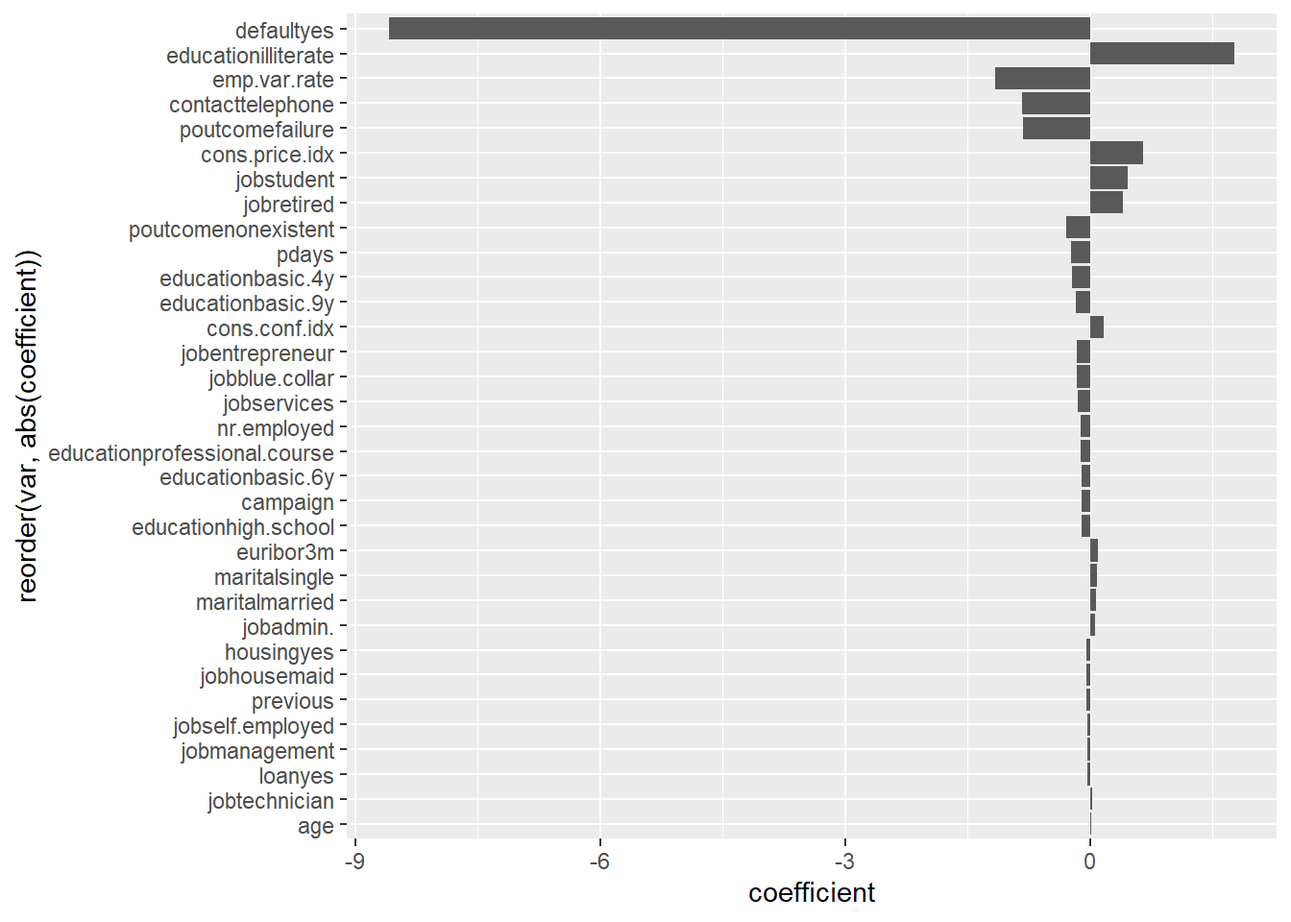
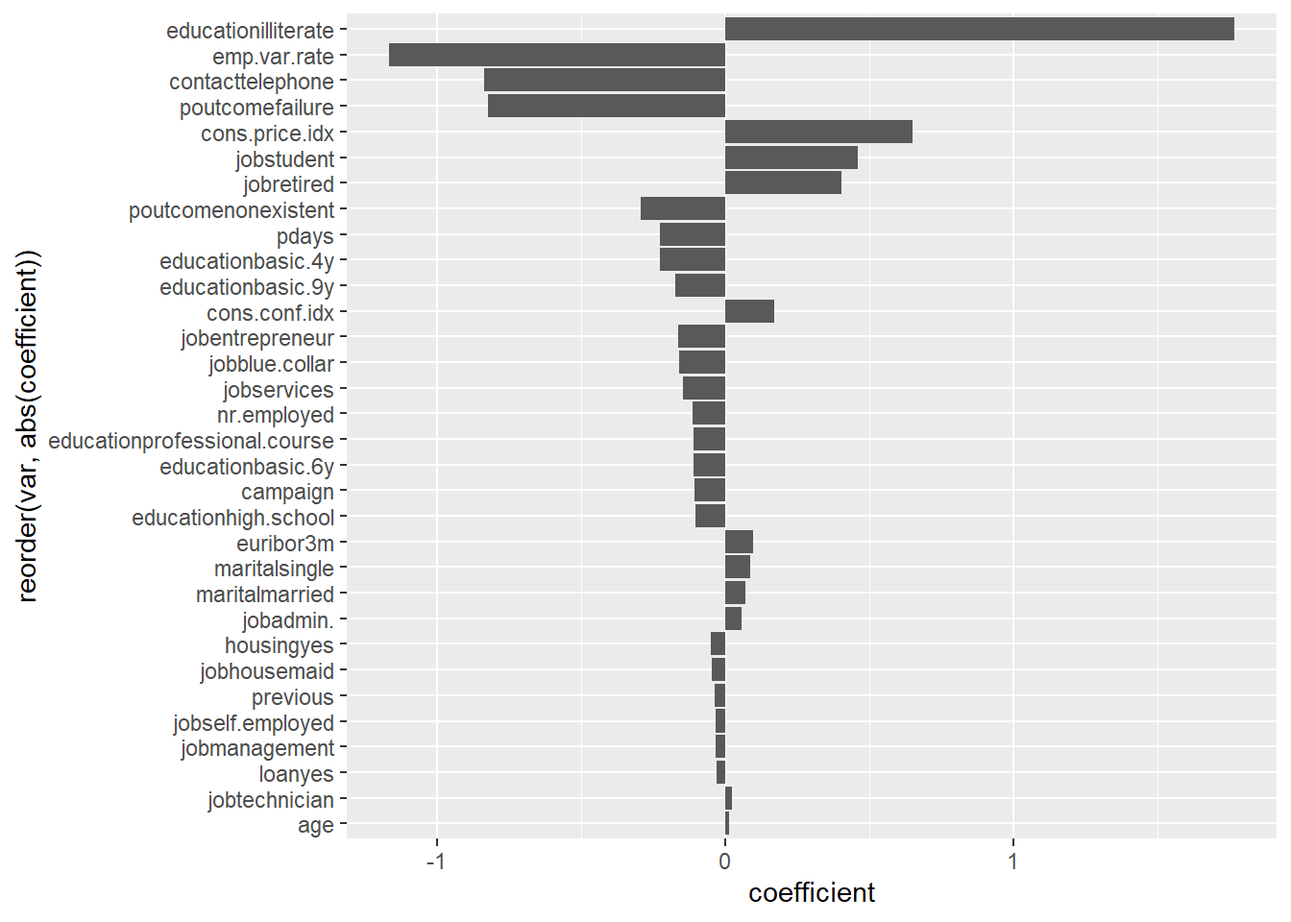
update

diff --git a/docs/logistic-regression.html b/docs/logistic-regression.html
@@ -105,13 +105,13 @@
             <section class="normal" id="section-">
 <div id="logistic-regression" class="section level1 hasAnchor" number="2">
 <h1><span class="header-section-number">Chapter 2</span> [Logistic Regression]<a href="logistic-regression.html#logistic-regression" class="anchor-section" aria-label="Anchor link to header"></a></h1>
-<p><img src="finalproj_files/figure-html/unnamed-chunk-16-1.png" width="672" />
+<p><img src="finalproj_files/figure-html/unnamed-chunk-15-1.png" width="672" />
 After the logistic regression models are built, we may access the feature importance by visualize the coefficient. The plot above shows the magnitude of significance for each variable with a descending order of their absolute value. It is obvious that the default value has the largest influence on the predicted probability. However, that’s mostly because of the default yes record in the data set according to the EDA part. Despite the default values, whether the person is illiterate, employment variable rate, whether the contacting is via telephone, and the outcome of previous campaign has remarkable impact on the prediction. However, the coefficient of default is too large that we actually can not assess the exact coefficient of variables by visualization; hence we may eliminate the default from the graph and get a new bar plot as follows.</p>
-<p><img src="finalproj_files/figure-html/unnamed-chunk-17-1.png" width="672" />
+<p><img src="finalproj_files/figure-html/unnamed-chunk-16-1.png" width="672" />
 From this plot, we may find that there are some variables that creates minor impact in our full regression model. Specifically speaking, in this plot,
-housingyes,, jobhousemaid, previous, jobself.employed, jobmanagement,loanyes, jobtechnician, and age have coefficient under 0.05. We will examine a reduced model without these listed variable in the following analysis.</p>
-<div class="plotly html-widget html-fill-item-overflow-hidden html-fill-item" id="htmlwidget-6e4af9d8e630ca2dcbc8" style="width:672px;height:480px;"></div>
-<script type="application/json" data-for="htmlwidget-6e4af9d8e630ca2dcbc8">{"x":{"data":[{"x":[1,0.99981301421092,0.992894540014959,0.959798055347794,0.860134629768138,0.62284966342558,0.454562453253553,0.387247569184742,0.334704562453254,0.291136873597607,0.256918474195961,0.243455497382199,0.232797307404637,0.213911742707554,0.18960359012715,0.169970082273747,0.152019446522064,0.132385938668661,0.118548990276739,0.107142857142857,0.0989154824233358,0.0959237097980554,0.0908750934928945,0.0869483919222139,0.0833956619296933,0.0794689603590127,0.0768511593118923,0.0740463724756918,0.0697456993268512,0.0667539267015707,0.0641361256544503,0.0613313388182498,0.0574046372475692,0.0544128646222887,0.0516080777860883,0.050299177262528,0.0486163051608078,0.0459985041136874,0.043941660433807,0.0413238593866866,0.0388930441286462,0.0362752430815258,0.0338444278234854,0.0327225130890052,0.0299177262528048,0.0286088257292446,0.0259910246821242,0.0241211667913239,0.0216903515332835,0.0200074794315632,0.018698578908003,0.0177636499626028,0.0173896783844428,0.0162677636499626,0.0157068062827225,0.0149588631264024,0.0138369483919222,0.0130890052356021,0.0119670905011219,0.0112191473448018,0.0102842183994016,0.00953627524308153,0.00897531787584144,0.00878833208676141,0.00841436050860135,0.00841436050860135,0.00804038893044129,0.00766641735228123,0.00766641735228123,0.00766641735228123,0.00710545998504114,0.00654450261780105,0.00617053103964099,0.0056095736724009,0.00504861630516081,0.00448765893792072,0.00411368735976066,0.00299177262528048,0.00261780104712042,0.00224382946896036,0.00149588631264024,0.00093492894540015,0.00037397157816006,0.00037397157816006,0.00018698578908003,0,0,0,0,0,0,0,0,0,0,0,0,0,0,0,0],"y":[1,1,0.997333333333333,0.996,0.965333333333333,0.893333333333333,0.821333333333333,0.792,0.761333333333333,0.732,0.717333333333333,0.708,0.697333333333333,0.678666666666667,0.654666666666667,0.628,0.606666666666667,0.585333333333333,0.564,0.552,0.533333333333333,0.514666666666667,0.496,0.492,0.486666666666667,0.474666666666667,0.464,0.457333333333333,0.448,0.441333333333333,0.436,0.428,0.416,0.404,0.394666666666667,0.386666666666667,0.378666666666667,0.365333333333333,0.358666666666667,0.349333333333333,0.334666666666667,0.324,0.317333333333333,0.312,0.302666666666667,0.289333333333333,0.276,0.262666666666667,0.249333333333333,0.236,0.222666666666667,0.214666666666667,0.208,0.201333333333333,0.193333333333333,0.186666666666667,0.178666666666667,0.173333333333333,0.168,0.168,0.162666666666667,0.158666666666667,0.156,0.150666666666667,0.149333333333333,0.141333333333333,0.141333333333333,0.133333333333333,0.129333333333333,0.125333333333333,0.12,0.112,0.1,0.096,0.0946666666666667,0.0853333333333333,0.076,0.0666666666666667,0.0626666666666667,0.0493333333333333,0.0373333333333333,0.0213333333333333,0.0133333333333333,0.008,0.00666666666666667,0.00266666666666667,0.00133333333333333,0,0,0,0,0,0,0,0,0,0,0,0,0,0],"text":["fpr: 1.0000000000<br />tpr: 1.000000000<br />label: 0.00","fpr: 0.9998130142<br />tpr: 1.000000000<br />label: 0.01","fpr: 0.9928945400<br />tpr: 0.997333333<br />label: 0.02","fpr: 0.9597980553<br />tpr: 0.996000000<br />label: 0.03","fpr: 0.8601346298<br />tpr: 0.965333333<br />label: 0.04","fpr: 0.6228496634<br />tpr: 0.893333333<br />label: 0.05","fpr: 0.4545624533<br />tpr: 0.821333333<br />label: 0.06","fpr: 0.3872475692<br />tpr: 0.792000000<br />label: 0.07","fpr: 0.3347045625<br />tpr: 0.761333333<br />label: 0.08","fpr: 0.2911368736<br />tpr: 0.732000000<br />label: 0.09","fpr: 0.2569184742<br />tpr: 0.717333333<br />label: 0.10","fpr: 0.2434554974<br />tpr: 0.708000000<br />label: 0.11","fpr: 0.2327973074<br />tpr: 0.697333333<br />label: 0.12","fpr: 0.2139117427<br />tpr: 0.678666667<br />label: 0.13","fpr: 0.1896035901<br />tpr: 0.654666667<br />label: 0.14","fpr: 0.1699700823<br />tpr: 0.628000000<br />label: 0.15","fpr: 0.1520194465<br />tpr: 0.606666667<br />label: 0.16","fpr: 0.1323859387<br />tpr: 0.585333333<br />label: 0.17","fpr: 0.1185489903<br />tpr: 0.564000000<br />label: 0.18","fpr: 0.1071428571<br />tpr: 0.552000000<br />label: 0.19","fpr: 0.0989154824<br />tpr: 0.533333333<br />label: 0.20","fpr: 0.0959237098<br />tpr: 0.514666667<br />label: 0.21","fpr: 0.0908750935<br />tpr: 0.496000000<br />label: 0.22","fpr: 0.0869483919<br />tpr: 0.492000000<br />label: 0.23","fpr: 0.0833956619<br />tpr: 0.486666667<br />label: 0.24","fpr: 0.0794689604<br />tpr: 0.474666667<br />label: 0.25","fpr: 0.0768511593<br />tpr: 0.464000000<br />label: 0.26","fpr: 0.0740463725<br />tpr: 0.457333333<br />label: 0.27","fpr: 0.0697456993<br />tpr: 0.448000000<br />label: 0.28","fpr: 0.0667539267<br />tpr: 0.441333333<br />label: 0.29","fpr: 0.0641361257<br />tpr: 0.436000000<br />label: 0.30","fpr: 0.0613313388<br />tpr: 0.428000000<br />label: 0.31","fpr: 0.0574046372<br />tpr: 0.416000000<br />label: 0.32","fpr: 0.0544128646<br />tpr: 0.404000000<br />label: 0.33","fpr: 0.0516080778<br />tpr: 0.394666667<br />label: 0.34","fpr: 0.0502991773<br />tpr: 0.386666667<br />label: 0.35","fpr: 0.0486163052<br />tpr: 0.378666667<br />label: 0.36","fpr: 0.0459985041<br />tpr: 0.365333333<br />label: 0.37","fpr: 0.0439416604<br />tpr: 0.358666667<br />label: 0.38","fpr: 0.0413238594<br />tpr: 0.349333333<br />label: 0.39","fpr: 0.0388930441<br />tpr: 0.334666667<br />label: 0.40","fpr: 0.0362752431<br />tpr: 0.324000000<br />label: 0.41","fpr: 0.0338444278<br />tpr: 0.317333333<br />label: 0.42","fpr: 0.0327225131<br />tpr: 0.312000000<br />label: 0.43","fpr: 0.0299177263<br />tpr: 0.302666667<br />label: 0.44","fpr: 0.0286088257<br />tpr: 0.289333333<br />label: 0.45","fpr: 0.0259910247<br />tpr: 0.276000000<br />label: 0.46","fpr: 0.0241211668<br />tpr: 0.262666667<br />label: 0.47","fpr: 0.0216903515<br />tpr: 0.249333333<br />label: 0.48","fpr: 0.0200074794<br />tpr: 0.236000000<br />label: 0.49","fpr: 0.0186985789<br />tpr: 0.222666667<br />label: 0.50","fpr: 0.0177636500<br />tpr: 0.214666667<br />label: 0.51","fpr: 0.0173896784<br />tpr: 0.208000000<br />label: 0.52","fpr: 0.0162677636<br />tpr: 0.201333333<br />label: 0.53","fpr: 0.0157068063<br />tpr: 0.193333333<br />label: 0.54","fpr: 0.0149588631<br />tpr: 0.186666667<br />label: 0.55","fpr: 0.0138369484<br />tpr: 0.178666667<br />label: 0.56","fpr: 0.0130890052<br />tpr: 0.173333333<br />label: 0.57","fpr: 0.0119670905<br />tpr: 0.168000000<br />label: 0.58","fpr: 0.0112191473<br />tpr: 0.168000000<br />label: 0.59","fpr: 0.0102842184<br />tpr: 0.162666667<br />label: 0.60","fpr: 0.0095362752<br />tpr: 0.158666667<br />label: 0.61","fpr: 0.0089753179<br />tpr: 0.156000000<br />label: 0.62","fpr: 0.0087883321<br />tpr: 0.150666667<br />label: 0.63","fpr: 0.0084143605<br />tpr: 0.149333333<br />label: 0.64","fpr: 0.0084143605<br />tpr: 0.141333333<br />label: 0.65","fpr: 0.0080403889<br />tpr: 0.141333333<br />label: 0.66","fpr: 0.0076664174<br />tpr: 0.133333333<br />label: 0.67","fpr: 0.0076664174<br />tpr: 0.129333333<br />label: 0.68","fpr: 0.0076664174<br />tpr: 0.125333333<br />label: 0.69","fpr: 0.0071054600<br />tpr: 0.120000000<br />label: 0.70","fpr: 0.0065445026<br />tpr: 0.112000000<br />label: 0.71","fpr: 0.0061705310<br />tpr: 0.100000000<br />label: 0.72","fpr: 0.0056095737<br />tpr: 0.096000000<br />label: 0.73","fpr: 0.0050486163<br />tpr: 0.094666667<br />label: 0.74","fpr: 0.0044876589<br />tpr: 0.085333333<br />label: 0.75","fpr: 0.0041136874<br />tpr: 0.076000000<br />label: 0.76","fpr: 0.0029917726<br />tpr: 0.066666667<br />label: 0.77","fpr: 0.0026178010<br />tpr: 0.062666667<br />label: 0.78","fpr: 0.0022438295<br />tpr: 0.049333333<br />label: 0.79","fpr: 0.0014958863<br />tpr: 0.037333333<br />label: 0.80","fpr: 0.0009349289<br />tpr: 0.021333333<br />label: 0.81","fpr: 0.0003739716<br />tpr: 0.013333333<br />label: 0.82","fpr: 0.0003739716<br />tpr: 0.008000000<br />label: 0.83","fpr: 0.0001869858<br />tpr: 0.006666667<br />label: 0.84","fpr: 0.0000000000<br />tpr: 0.002666667<br />label: 0.85","fpr: 0.0000000000<br />tpr: 0.001333333<br />label: 0.86","fpr: 0.0000000000<br />tpr: 0.000000000<br />label: 0.87","fpr: 0.0000000000<br />tpr: 0.000000000<br />label: 0.88","fpr: 0.0000000000<br />tpr: 0.000000000<br />label: 0.89","fpr: 0.0000000000<br />tpr: 0.000000000<br />label: 0.90","fpr: 0.0000000000<br />tpr: 0.000000000<br />label: 0.91","fpr: 0.0000000000<br />tpr: 0.000000000<br />label: 0.92","fpr: 0.0000000000<br />tpr: 0.000000000<br />label: 0.93","fpr: 0.0000000000<br />tpr: 0.000000000<br />label: 0.94","fpr: 0.0000000000<br />tpr: 0.000000000<br />label: 0.95","fpr: 0.0000000000<br />tpr: 0.000000000<br />label: 0.96","fpr: 0.0000000000<br />tpr: 0.000000000<br />label: 0.97","fpr: 0.0000000000<br />tpr: 0.000000000<br />label: 0.98","fpr: 0.0000000000<br />tpr: 0.000000000<br />label: 0.99","fpr: 0.0000000000<br />tpr: 0.000000000<br />label: 1.00"],"type":"scatter","mode":"markers+lines","marker":{"autocolorscale":false,"color":"rgba(0,0,0,1)","opacity":1,"size":5.66929133858268,"symbol":"circle","line":{"width":1.88976377952756,"color":"rgba(0,0,0,1)"}},"hoveron":"points","showlegend":false,"xaxis":"x","yaxis":"y","hoverinfo":"text","line":{"width":1.88976377952756,"color":"rgba(0,0,0,1)","dash":"solid"},"frame":null},{"showlegend":false,"xaxis":"x","yaxis":"y","hoverinfo":"text","mode":"","frame":null}],"layout":{"margin":{"t":26.2283105022831,"r":7.30593607305936,"b":40.1826484018265,"l":48.9497716894977},"plot_bgcolor":"rgba(235,235,235,1)","paper_bgcolor":"rgba(255,255,255,1)","font":{"color":"rgba(0,0,0,1)","family":"","size":14.6118721461187},"xaxis":{"domain":[0,1],"automargin":true,"type":"linear","autorange":false,"range":[-0.05,1.05],"tickmode":"array","ticktext":["0.00","0.25","0.50","0.75","1.00"],"tickvals":[0,0.25,0.5,0.75,1],"categoryorder":"array","categoryarray":["0.00","0.25","0.50","0.75","1.00"],"nticks":null,"ticks":"outside","tickcolor":"rgba(51,51,51,1)","ticklen":3.65296803652968,"tickwidth":0.66417600664176,"showticklabels":true,"tickfont":{"color":"rgba(77,77,77,1)","family":"","size":11.689497716895},"tickangle":-0,"showline":false,"linecolor":null,"linewidth":0,"showgrid":true,"gridcolor":"rgba(255,255,255,1)","gridwidth":0.66417600664176,"zeroline":false,"anchor":"y","title":{"text":"fpr","font":{"color":"rgba(0,0,0,1)","family":"","size":14.6118721461187}},"hoverformat":".2f"},"yaxis":{"domain":[0,1],"automargin":true,"type":"linear","autorange":false,"range":[-0.05,1.05],"tickmode":"array","ticktext":["0.00","0.25","0.50","0.75","1.00"],"tickvals":[0,0.25,0.5,0.75,1],"categoryorder":"array","categoryarray":["0.00","0.25","0.50","0.75","1.00"],"nticks":null,"ticks":"outside","tickcolor":"rgba(51,51,51,1)","ticklen":3.65296803652968,"tickwidth":0.66417600664176,"showticklabels":true,"tickfont":{"color":"rgba(77,77,77,1)","family":"","size":11.689497716895},"tickangle":-0,"showline":false,"linecolor":null,"linewidth":0,"showgrid":true,"gridcolor":"rgba(255,255,255,1)","gridwidth":0.66417600664176,"zeroline":false,"anchor":"x","title":{"text":"tpr","font":{"color":"rgba(0,0,0,1)","family":"","size":14.6118721461187}},"hoverformat":".2f"},"shapes":[{"type":"rect","fillcolor":null,"line":{"color":null,"width":0,"linetype":[]},"yref":"paper","xref":"paper","x0":0,"x1":1,"y0":0,"y1":1}],"showlegend":false,"legend":{"bgcolor":"rgba(255,255,255,1)","bordercolor":"transparent","borderwidth":1.88976377952756,"font":{"color":"rgba(0,0,0,1)","family":"","size":11.689497716895}},"hovermode":"closest","barmode":"relative"},"config":{"doubleClick":"reset","modeBarButtonsToAdd":["hoverclosest","hovercompare"],"showSendToCloud":false},"source":"A","attrs":{"79684794286e":{"x":{},"y":{},"label":{},"type":"scatter"},"79682f1b2efe":{"x":{},"y":{},"label":{}},"796815973ce5":{"x":{},"y":{},"label":{}}},"cur_data":"79684794286e","visdat":{"79684794286e":["function (y) ","x"],"79682f1b2efe":["function (y) ","x"],"796815973ce5":["function (y) ","x"]},"highlight":{"on":"plotly_click","persistent":false,"dynamic":false,"selectize":false,"opacityDim":0.2,"selected":{"opacity":1},"debounce":0},"shinyEvents":["plotly_hover","plotly_click","plotly_selected","plotly_relayout","plotly_brushed","plotly_brushing","plotly_clickannotation","plotly_doubleclick","plotly_deselect","plotly_afterplot","plotly_sunburstclick"],"base_url":"https://plot.ly"},"evals":[],"jsHooks":[]}</script>
+housingyes,, jobhousemaid, previous, jobself.employed, jobmanagement,loanyes, jobtechnician, and age have relatively small coefficient values. We will examine a reduced model without these listed variable in the following analysis.</p>
+<div class="plotly html-widget html-fill-item-overflow-hidden html-fill-item" id="htmlwidget-8554d9172f6d47083a55" style="width:672px;height:480px;"></div>
+<script type="application/json" data-for="htmlwidget-8554d9172f6d47083a55">{"x":{"data":[{"x":[1,0.99981301421092,0.992894540014959,0.959798055347794,0.860134629768138,0.62284966342558,0.454562453253553,0.387247569184742,0.334704562453254,0.291136873597607,0.256918474195961,0.243455497382199,0.232797307404637,0.213911742707554,0.18960359012715,0.169970082273747,0.152019446522064,0.132385938668661,0.118548990276739,0.107142857142857,0.0989154824233358,0.0959237097980554,0.0908750934928945,0.0869483919222139,0.0833956619296933,0.0794689603590127,0.0768511593118923,0.0740463724756918,0.0697456993268512,0.0667539267015707,0.0641361256544503,0.0613313388182498,0.0574046372475692,0.0544128646222887,0.0516080777860883,0.050299177262528,0.0486163051608078,0.0459985041136874,0.043941660433807,0.0413238593866866,0.0388930441286462,0.0362752430815258,0.0338444278234854,0.0327225130890052,0.0299177262528048,0.0286088257292446,0.0259910246821242,0.0241211667913239,0.0216903515332835,0.0200074794315632,0.018698578908003,0.0177636499626028,0.0173896783844428,0.0162677636499626,0.0157068062827225,0.0149588631264024,0.0138369483919222,0.0130890052356021,0.0119670905011219,0.0112191473448018,0.0102842183994016,0.00953627524308153,0.00897531787584144,0.00878833208676141,0.00841436050860135,0.00841436050860135,0.00804038893044129,0.00766641735228123,0.00766641735228123,0.00766641735228123,0.00710545998504114,0.00654450261780105,0.00617053103964099,0.0056095736724009,0.00504861630516081,0.00448765893792072,0.00411368735976066,0.00299177262528048,0.00261780104712042,0.00224382946896036,0.00149588631264024,0.00093492894540015,0.00037397157816006,0.00037397157816006,0.00018698578908003,0,0,0,0,0,0,0,0,0,0,0,0,0,0,0,0],"y":[1,1,0.997333333333333,0.996,0.965333333333333,0.893333333333333,0.821333333333333,0.792,0.761333333333333,0.732,0.717333333333333,0.708,0.697333333333333,0.678666666666667,0.654666666666667,0.628,0.606666666666667,0.585333333333333,0.564,0.552,0.533333333333333,0.514666666666667,0.496,0.492,0.486666666666667,0.474666666666667,0.464,0.457333333333333,0.448,0.441333333333333,0.436,0.428,0.416,0.404,0.394666666666667,0.386666666666667,0.378666666666667,0.365333333333333,0.358666666666667,0.349333333333333,0.334666666666667,0.324,0.317333333333333,0.312,0.302666666666667,0.289333333333333,0.276,0.262666666666667,0.249333333333333,0.236,0.222666666666667,0.214666666666667,0.208,0.201333333333333,0.193333333333333,0.186666666666667,0.178666666666667,0.173333333333333,0.168,0.168,0.162666666666667,0.158666666666667,0.156,0.150666666666667,0.149333333333333,0.141333333333333,0.141333333333333,0.133333333333333,0.129333333333333,0.125333333333333,0.12,0.112,0.1,0.096,0.0946666666666667,0.0853333333333333,0.076,0.0666666666666667,0.0626666666666667,0.0493333333333333,0.0373333333333333,0.0213333333333333,0.0133333333333333,0.008,0.00666666666666667,0.00266666666666667,0.00133333333333333,0,0,0,0,0,0,0,0,0,0,0,0,0,0],"text":["fpr: 1.0000000000<br />tpr: 1.000000000<br />label: 0.00","fpr: 0.9998130142<br />tpr: 1.000000000<br />label: 0.01","fpr: 0.9928945400<br />tpr: 0.997333333<br />label: 0.02","fpr: 0.9597980553<br />tpr: 0.996000000<br />label: 0.03","fpr: 0.8601346298<br />tpr: 0.965333333<br />label: 0.04","fpr: 0.6228496634<br />tpr: 0.893333333<br />label: 0.05","fpr: 0.4545624533<br />tpr: 0.821333333<br />label: 0.06","fpr: 0.3872475692<br />tpr: 0.792000000<br />label: 0.07","fpr: 0.3347045625<br />tpr: 0.761333333<br />label: 0.08","fpr: 0.2911368736<br />tpr: 0.732000000<br />label: 0.09","fpr: 0.2569184742<br />tpr: 0.717333333<br />label: 0.10","fpr: 0.2434554974<br />tpr: 0.708000000<br />label: 0.11","fpr: 0.2327973074<br />tpr: 0.697333333<br />label: 0.12","fpr: 0.2139117427<br />tpr: 0.678666667<br />label: 0.13","fpr: 0.1896035901<br />tpr: 0.654666667<br />label: 0.14","fpr: 0.1699700823<br />tpr: 0.628000000<br />label: 0.15","fpr: 0.1520194465<br />tpr: 0.606666667<br />label: 0.16","fpr: 0.1323859387<br />tpr: 0.585333333<br />label: 0.17","fpr: 0.1185489903<br />tpr: 0.564000000<br />label: 0.18","fpr: 0.1071428571<br />tpr: 0.552000000<br />label: 0.19","fpr: 0.0989154824<br />tpr: 0.533333333<br />label: 0.20","fpr: 0.0959237098<br />tpr: 0.514666667<br />label: 0.21","fpr: 0.0908750935<br />tpr: 0.496000000<br />label: 0.22","fpr: 0.0869483919<br />tpr: 0.492000000<br />label: 0.23","fpr: 0.0833956619<br />tpr: 0.486666667<br />label: 0.24","fpr: 0.0794689604<br />tpr: 0.474666667<br />label: 0.25","fpr: 0.0768511593<br />tpr: 0.464000000<br />label: 0.26","fpr: 0.0740463725<br />tpr: 0.457333333<br />label: 0.27","fpr: 0.0697456993<br />tpr: 0.448000000<br />label: 0.28","fpr: 0.0667539267<br />tpr: 0.441333333<br />label: 0.29","fpr: 0.0641361257<br />tpr: 0.436000000<br />label: 0.30","fpr: 0.0613313388<br />tpr: 0.428000000<br />label: 0.31","fpr: 0.0574046372<br />tpr: 0.416000000<br />label: 0.32","fpr: 0.0544128646<br />tpr: 0.404000000<br />label: 0.33","fpr: 0.0516080778<br />tpr: 0.394666667<br />label: 0.34","fpr: 0.0502991773<br />tpr: 0.386666667<br />label: 0.35","fpr: 0.0486163052<br />tpr: 0.378666667<br />label: 0.36","fpr: 0.0459985041<br />tpr: 0.365333333<br />label: 0.37","fpr: 0.0439416604<br />tpr: 0.358666667<br />label: 0.38","fpr: 0.0413238594<br />tpr: 0.349333333<br />label: 0.39","fpr: 0.0388930441<br />tpr: 0.334666667<br />label: 0.40","fpr: 0.0362752431<br />tpr: 0.324000000<br />label: 0.41","fpr: 0.0338444278<br />tpr: 0.317333333<br />label: 0.42","fpr: 0.0327225131<br />tpr: 0.312000000<br />label: 0.43","fpr: 0.0299177263<br />tpr: 0.302666667<br />label: 0.44","fpr: 0.0286088257<br />tpr: 0.289333333<br />label: 0.45","fpr: 0.0259910247<br />tpr: 0.276000000<br />label: 0.46","fpr: 0.0241211668<br />tpr: 0.262666667<br />label: 0.47","fpr: 0.0216903515<br />tpr: 0.249333333<br />label: 0.48","fpr: 0.0200074794<br />tpr: 0.236000000<br />label: 0.49","fpr: 0.0186985789<br />tpr: 0.222666667<br />label: 0.50","fpr: 0.0177636500<br />tpr: 0.214666667<br />label: 0.51","fpr: 0.0173896784<br />tpr: 0.208000000<br />label: 0.52","fpr: 0.0162677636<br />tpr: 0.201333333<br />label: 0.53","fpr: 0.0157068063<br />tpr: 0.193333333<br />label: 0.54","fpr: 0.0149588631<br />tpr: 0.186666667<br />label: 0.55","fpr: 0.0138369484<br />tpr: 0.178666667<br />label: 0.56","fpr: 0.0130890052<br />tpr: 0.173333333<br />label: 0.57","fpr: 0.0119670905<br />tpr: 0.168000000<br />label: 0.58","fpr: 0.0112191473<br />tpr: 0.168000000<br />label: 0.59","fpr: 0.0102842184<br />tpr: 0.162666667<br />label: 0.60","fpr: 0.0095362752<br />tpr: 0.158666667<br />label: 0.61","fpr: 0.0089753179<br />tpr: 0.156000000<br />label: 0.62","fpr: 0.0087883321<br />tpr: 0.150666667<br />label: 0.63","fpr: 0.0084143605<br />tpr: 0.149333333<br />label: 0.64","fpr: 0.0084143605<br />tpr: 0.141333333<br />label: 0.65","fpr: 0.0080403889<br />tpr: 0.141333333<br />label: 0.66","fpr: 0.0076664174<br />tpr: 0.133333333<br />label: 0.67","fpr: 0.0076664174<br />tpr: 0.129333333<br />label: 0.68","fpr: 0.0076664174<br />tpr: 0.125333333<br />label: 0.69","fpr: 0.0071054600<br />tpr: 0.120000000<br />label: 0.70","fpr: 0.0065445026<br />tpr: 0.112000000<br />label: 0.71","fpr: 0.0061705310<br />tpr: 0.100000000<br />label: 0.72","fpr: 0.0056095737<br />tpr: 0.096000000<br />label: 0.73","fpr: 0.0050486163<br />tpr: 0.094666667<br />label: 0.74","fpr: 0.0044876589<br />tpr: 0.085333333<br />label: 0.75","fpr: 0.0041136874<br />tpr: 0.076000000<br />label: 0.76","fpr: 0.0029917726<br />tpr: 0.066666667<br />label: 0.77","fpr: 0.0026178010<br />tpr: 0.062666667<br />label: 0.78","fpr: 0.0022438295<br />tpr: 0.049333333<br />label: 0.79","fpr: 0.0014958863<br />tpr: 0.037333333<br />label: 0.80","fpr: 0.0009349289<br />tpr: 0.021333333<br />label: 0.81","fpr: 0.0003739716<br />tpr: 0.013333333<br />label: 0.82","fpr: 0.0003739716<br />tpr: 0.008000000<br />label: 0.83","fpr: 0.0001869858<br />tpr: 0.006666667<br />label: 0.84","fpr: 0.0000000000<br />tpr: 0.002666667<br />label: 0.85","fpr: 0.0000000000<br />tpr: 0.001333333<br />label: 0.86","fpr: 0.0000000000<br />tpr: 0.000000000<br />label: 0.87","fpr: 0.0000000000<br />tpr: 0.000000000<br />label: 0.88","fpr: 0.0000000000<br />tpr: 0.000000000<br />label: 0.89","fpr: 0.0000000000<br />tpr: 0.000000000<br />label: 0.90","fpr: 0.0000000000<br />tpr: 0.000000000<br />label: 0.91","fpr: 0.0000000000<br />tpr: 0.000000000<br />label: 0.92","fpr: 0.0000000000<br />tpr: 0.000000000<br />label: 0.93","fpr: 0.0000000000<br />tpr: 0.000000000<br />label: 0.94","fpr: 0.0000000000<br />tpr: 0.000000000<br />label: 0.95","fpr: 0.0000000000<br />tpr: 0.000000000<br />label: 0.96","fpr: 0.0000000000<br />tpr: 0.000000000<br />label: 0.97","fpr: 0.0000000000<br />tpr: 0.000000000<br />label: 0.98","fpr: 0.0000000000<br />tpr: 0.000000000<br />label: 0.99","fpr: 0.0000000000<br />tpr: 0.000000000<br />label: 1.00"],"type":"scatter","mode":"markers+lines","marker":{"autocolorscale":false,"color":"rgba(0,0,0,1)","opacity":1,"size":5.66929133858268,"symbol":"circle","line":{"width":1.88976377952756,"color":"rgba(0,0,0,1)"}},"hoveron":"points","showlegend":false,"xaxis":"x","yaxis":"y","hoverinfo":"text","line":{"width":1.88976377952756,"color":"rgba(0,0,0,1)","dash":"solid"},"frame":null},{"showlegend":false,"xaxis":"x","yaxis":"y","hoverinfo":"text","mode":"","frame":null}],"layout":{"margin":{"t":26.2283105022831,"r":7.30593607305936,"b":40.1826484018265,"l":48.9497716894977},"plot_bgcolor":"rgba(235,235,235,1)","paper_bgcolor":"rgba(255,255,255,1)","font":{"color":"rgba(0,0,0,1)","family":"","size":14.6118721461187},"xaxis":{"domain":[0,1],"automargin":true,"type":"linear","autorange":false,"range":[-0.05,1.05],"tickmode":"array","ticktext":["0.00","0.25","0.50","0.75","1.00"],"tickvals":[0,0.25,0.5,0.75,1],"categoryorder":"array","categoryarray":["0.00","0.25","0.50","0.75","1.00"],"nticks":null,"ticks":"outside","tickcolor":"rgba(51,51,51,1)","ticklen":3.65296803652968,"tickwidth":0.66417600664176,"showticklabels":true,"tickfont":{"color":"rgba(77,77,77,1)","family":"","size":11.689497716895},"tickangle":-0,"showline":false,"linecolor":null,"linewidth":0,"showgrid":true,"gridcolor":"rgba(255,255,255,1)","gridwidth":0.66417600664176,"zeroline":false,"anchor":"y","title":{"text":"fpr","font":{"color":"rgba(0,0,0,1)","family":"","size":14.6118721461187}},"hoverformat":".2f"},"yaxis":{"domain":[0,1],"automargin":true,"type":"linear","autorange":false,"range":[-0.05,1.05],"tickmode":"array","ticktext":["0.00","0.25","0.50","0.75","1.00"],"tickvals":[0,0.25,0.5,0.75,1],"categoryorder":"array","categoryarray":["0.00","0.25","0.50","0.75","1.00"],"nticks":null,"ticks":"outside","tickcolor":"rgba(51,51,51,1)","ticklen":3.65296803652968,"tickwidth":0.66417600664176,"showticklabels":true,"tickfont":{"color":"rgba(77,77,77,1)","family":"","size":11.689497716895},"tickangle":-0,"showline":false,"linecolor":null,"linewidth":0,"showgrid":true,"gridcolor":"rgba(255,255,255,1)","gridwidth":0.66417600664176,"zeroline":false,"anchor":"x","title":{"text":"tpr","font":{"color":"rgba(0,0,0,1)","family":"","size":14.6118721461187}},"hoverformat":".2f"},"shapes":[{"type":"rect","fillcolor":null,"line":{"color":null,"width":0,"linetype":[]},"yref":"paper","xref":"paper","x0":0,"x1":1,"y0":0,"y1":1}],"showlegend":false,"legend":{"bgcolor":"rgba(255,255,255,1)","bordercolor":"transparent","borderwidth":1.88976377952756,"font":{"color":"rgba(0,0,0,1)","family":"","size":11.689497716895}},"hovermode":"closest","barmode":"relative"},"config":{"doubleClick":"reset","modeBarButtonsToAdd":["hoverclosest","hovercompare"],"showSendToCloud":false},"source":"A","attrs":{"796848a86d2a":{"x":{},"y":{},"label":{},"type":"scatter"},"79686b862c2e":{"x":{},"y":{},"label":{}},"79687abe4bf4":{"x":{},"y":{},"label":{}}},"cur_data":"796848a86d2a","visdat":{"796848a86d2a":["function (y) ","x"],"79686b862c2e":["function (y) ","x"],"79687abe4bf4":["function (y) ","x"]},"highlight":{"on":"plotly_click","persistent":false,"dynamic":false,"selectize":false,"opacityDim":0.2,"selected":{"opacity":1},"debounce":0},"shinyEvents":["plotly_hover","plotly_click","plotly_selected","plotly_relayout","plotly_brushed","plotly_brushing","plotly_clickannotation","plotly_doubleclick","plotly_deselect","plotly_afterplot","plotly_sunburstclick"],"base_url":"https://plot.ly"},"evals":[],"jsHooks":[]}</script>
 
 </div>
             </section>
